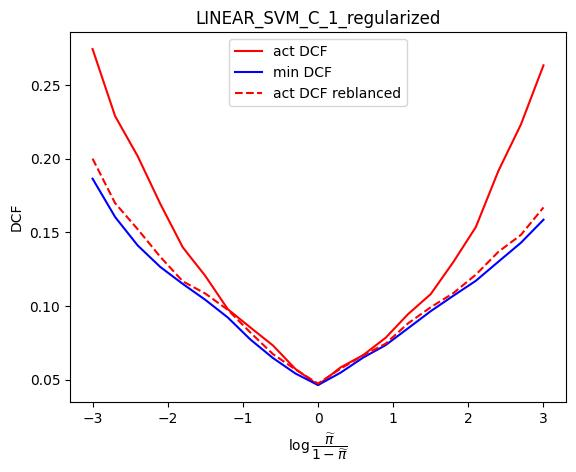
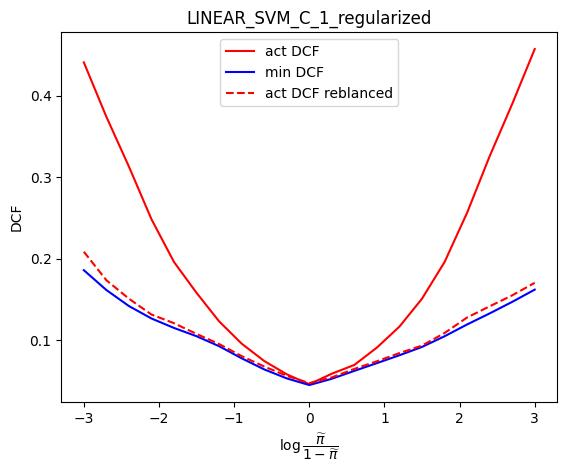
starting evaluation

diff --git a/app/core/main.py b/app/core/main.py
@@ -447,6 +447,108 @@ def score_calibration(D, L, classifier:'BaseClassifier', nr_kfold_split, cfp, cf
     
 
 
+def evaluation(DTR, LTR, cfp, cfn):
+    print('********  STARTING EVALUATION ***********\n')
+
+    DTE, LTE = lib.load_binary_data(TEST_DATA_FILE, NR_FEATURES)
+
+    
+    # APPLYING Z-NORMALIZATION
+    DTR, DTE = lib.z_normalization(DTR, DTE)
+
+    for prior_cl_T in application_priors:
+        print(f'\n------------------------------- PRIOR {prior_cl_T}')
+
+        ### GMM TIED (4) CLASSIFIER
+        nr_clusters = 4
+        algorithm = 'tied_cov'
+        gmm = GmmClassifier(DTR, LTR)
+        gmm.compute_score(DTE, LTE, nr_clusters=nr_clusters, algorithm=algorithm)
+
+        min_dcf = lib.compute_min_DCF(
+            scores=gmm.scores,
+            labels=LTE,
+            prior_cl1=prior_cl_T,
+            Cfn=cfn,
+            Cfp=cfp
+        )
+
+        act_dcf = lib.compute_act_DCF(
+            scores=gmm.scores,
+            labels=LTE,
+            prior_cl1=prior_cl_T,
+            Cfn=cfn,
+            Cfp=cfp
+        )
+        print(f'EVALUATION: GMM TIED (4) prior {prior_cl_T}, nr_comp. {nr_clusters}, min DCF {min_dcf}, act DCF {act_dcf}\n')
+
+        for pi_T in application_priors:
+            print(f'pi_TR {pi_T}')
+
+            ### LOG REG CLASSIFIER
+            _lambda = 0
+            lr = LogisticRegressionClassifier(DTR, LTR)
+            lr.compute_score(DTE, LTE, _lambda=_lambda, regularized=True, pi_T=pi_T)
+
+            min_dcf = lib.compute_min_DCF(
+                scores=lr.scores,
+                labels=LTE,
+                prior_cl1=prior_cl_T,
+                Cfn=cfn,
+                Cfp=cfp
+            )
+
+            act_dcf = lib.compute_act_DCF(
+                scores=lr.scores,
+                labels=LTE,
+                prior_cl1=prior_cl_T,
+                Cfn=cfn,
+                Cfp=cfp
+            )
+            print(f'EVALUATION: LOGISTIC REGRESSION prior {prior_cl_T}, pi_T {pi_T}, lambda {_lambda} min DCF {min_dcf}, act DCF {act_dcf}\n')
+
+
+            ### LINEAR SVM CLASSIFIER
+            C = 1
+            lsvm = SVMLinearClassifier(DTR, LTR)
+            lsvm.compute_score(DTE, LTE, C=C, rebalanced=True, pi_T=pi_T)
+
+            min_dcf = lib.compute_min_DCF(
+                scores=lsvm.scores,
+                labels=LTE,
+                prior_cl1=prior_cl_T,
+                Cfn=cfn,
+                Cfp=cfp
+            )
+
+            act_dcf = lib.compute_act_DCF(
+                scores=lsvm.scores,
+                labels=LTE,
+                prior_cl1=prior_cl_T,
+                Cfn=cfn,
+                Cfp=cfp
+            )
+            print(f'EVALUATION: LINEAR SVM prior {prior_cl_T}, pi_T {pi_T}, C {C}, min DCF {min_dcf}, act DCF {act_dcf}\n')
+            # recalibrate linear SVM
+            min_dcf_reb, act_dcf_reb, klass_reb = lib.K_fold(
+                D=lib.rowv(lsvm.scores), 
+                L=LTE, 
+                classifier_class=LogisticRegressionClassifier, 
+                actual_dcf=True, 
+                z_norm=True, 
+                gaus=False, 
+                pca_m=None, 
+                k=nr_kfold_split, 
+                prior_cl_T=prior_cl_T, 
+                cfp=cfp, 
+                cfn=cfn,
+                _lambda=0, 
+                regularized=True, 
+                pi_T=pi_T,
+            )
+            print(f'EVALUATION: LINEAR SVM (CALIBRATED) prior {prior_cl_T}, pi_T {pi_T}, C {C}, min DCF {min_dcf_reb}, act DCF {act_dcf_reb}\n')
+
+
 
 
 if __name__ == '__main__':
@@ -495,13 +597,15 @@ if __name__ == '__main__':
 
 
     # score_calibrate_SVM = partial(score_calibration, classifier=SVMLinearClassifier)
-    # score_calibrate_SVM(D, L, nr_kfold_split, cfp, cfn, model_name='LINEAR_SVM_C_1')
+    # score_calibrate_SVM(D=D, L=L, nr_kfold_split=nr_kfold_split, cfp=cfp, cfn=cfn, model_name='LINEAR_SVM_C_1')
     
-    score_calibrate_GMM = partial(score_calibration, classifier=GmmClassifier)
-    score_calibrate_GMM(D=D, L=L, nr_kfold_split=nr_kfold_split, cfp=cfp, cfn=cfn, model_name='GMM_tied_cov_4_comp', algorithm='tied_cov', nr_clusters=4)
+    # score_calibrate_GMM = partial(score_calibration, classifier=GmmClassifier)
+    # score_calibrate_GMM(D=D, L=L, nr_kfold_split=nr_kfold_split, cfp=cfp, cfn=cfn, model_name='GMM_tied_cov_4_comp', algorithm='tied_cov', nr_clusters=4)
 
-    score_calibrate_LOGREG = partial(score_calibration, classifier=LogisticRegressionClassifier)
-    score_calibrate_LOGREG(D=D, L=L, nr_kfold_split=nr_kfold_split, cfp=cfp, cfn=cfn, model_name='LINEAR_LOG_REG_lambda_0', _lambda=0)
+    # score_calibrate_LOGREG = partial(score_calibration, classifier=LogisticRegressionClassifier)
+    # score_calibrate_LOGREG(D=D, L=L, nr_kfold_split=nr_kfold_split, cfp=cfp, cfn=cfn, model_name='LINEAR_LOG_REG_lambda_0', _lambda=0)
+
+    evaluation(DTR=D, LTR=L, cfp=cfp, cfn=cfn)
 
 
 

diff --git a/app/libs/ml_lib.py b/app/libs/ml_lib.py
@@ -662,31 +662,10 @@ def K_fold(
     """
     
     
-    # typing for testing
-    classes_prior = [prior_cl_T, 1-prior_cl_T]
-
     tot_scores = []
     tot_LVA = []
     
     for (DTR, LTR, DVA, LVA) in (spilt_K_fold(D, L, k, seed)):
-        ''' SAVE TO FILE
-            # with open(f'my_ksplit_test/DTR_voice_{i}.txt', 'x') as f:
-            #     np.save(f, DTR)
-            # with open(f'my_ksplit_test/LTR_voice_{i}.txt', 'x') as f:
-            #     np.save(f, LTR)
-            # with open(f'my_ksplit_test/DVA_voice_{i}.txt', 'x') as f:
-            #     np.save(f, DVA)
-            # with open(f'my_ksplit_test/LVA_voice_{i}.txt', 'x') as f:
-            #     np.save(f, LVA)
-            file_DTR_pulsar = f'my_ksplit_test/DTR_pulsar_{i+1}_totSplit_{k}.txt'
-            file_LTR_pulsar = f'my_ksplit_test/LTR_pulsar_{i+1}_totSplit_{k}.txt'
-            file_DVA_pulsar = f'my_ksplit_test/DVA_pulsar_{i+1}_totSplit_{k}.txt'
-            file_LVA_pulsar = f'my_ksplit_test/LVA_pulsar_{i+1}_totSplit_{k}.txt'
-            np.save(file_DTR_pulsar, DTR)
-            np.save(file_LTR_pulsar, LTR)
-            np.save(file_DVA_pulsar, DVA)
-            np.save(file_LVA_pulsar, LVA)
-        '''
         if z_norm:
             # print('applying z norm')
             DTR, DVA = z_normalization(DTR, DVA)
